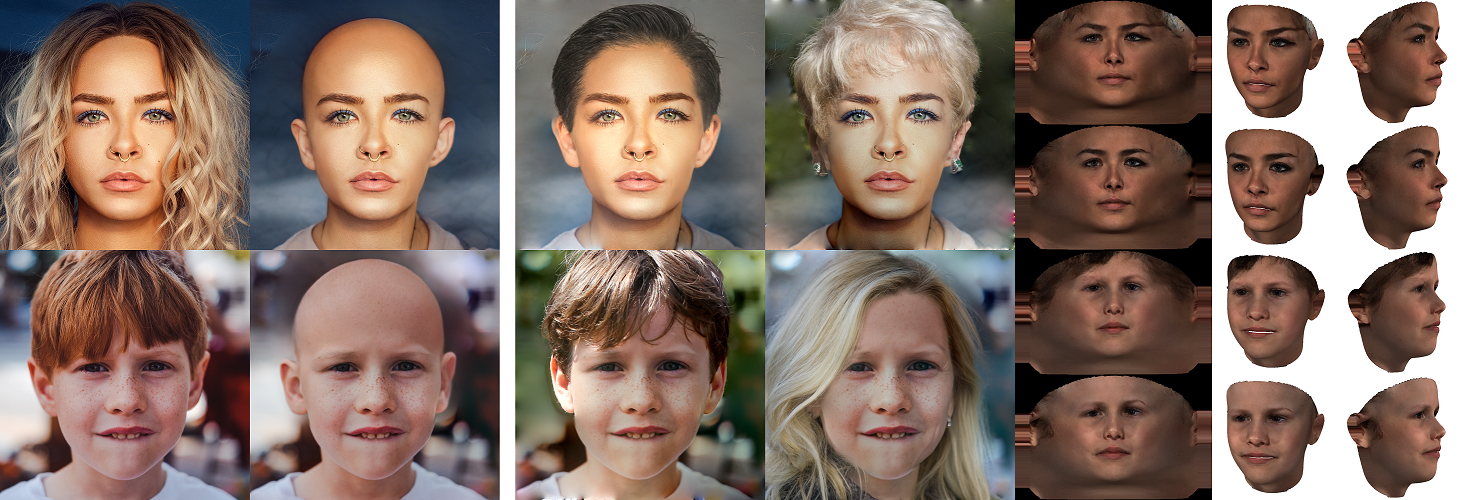
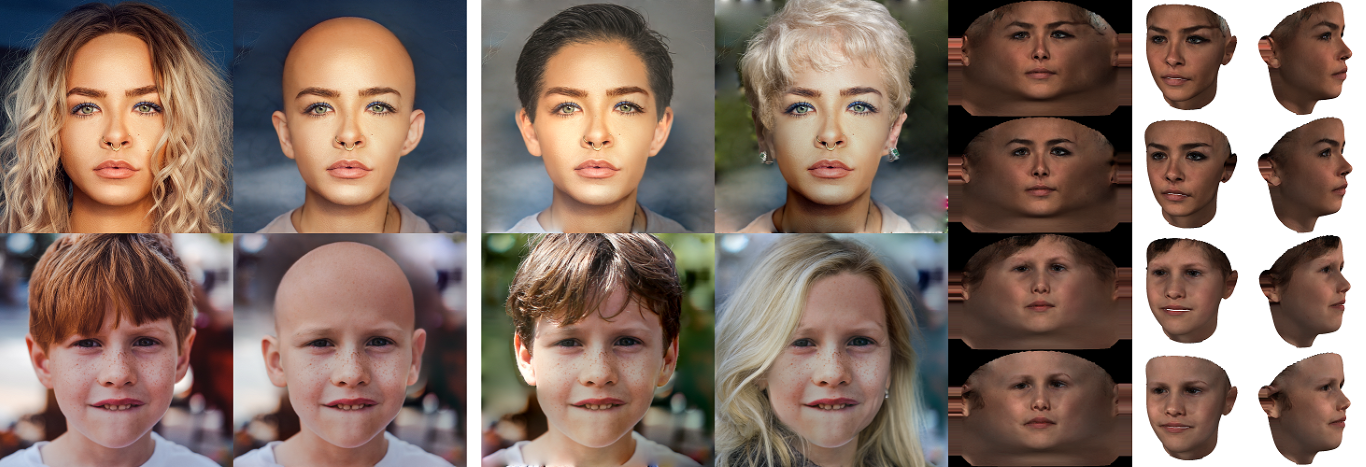
add teaser in pub

diff --git a/_includes/archive-single.html b/_includes/archive-single.html
@@ -12,6 +12,10 @@
   {% assign title = post.title %}
 {% endif %}
 
+{% if post.teaser %}
+  {% assign teaser = post.teaser %}
+{% endif %}
+
 <div class="{{ include.type | default: "list" }}__item">
   <article class="archive__item" itemscope itemtype="http://schema.org/CreativeWork">
     {% if include.type == "grid" and teaser %}
@@ -34,6 +38,11 @@
       {% endif %} -->
       <p>{{ title }}</p>
     </h2>
+
+    <!--    image-->
+    <img src="{{ teaser }}" alt="" height="42">
+
+
     
     {% if post.read_time %}
       <p class="page__meta"><i class="fa fa-clock-o" aria-hidden="true"></i> {% include read-time.html %}</p>

diff --git a/_publications/3DPortraitGAN.md b/_publications/3DPortraitGAN.md
@@ -13,6 +13,7 @@ supplementary_materials: 'https://drive.google.com/file/d/16aNE5USZ0U32bgGJS1G5x
 project_page: 'https://github.com/oneThousand1000/3DPortraitGAN'
 year: '2023'
 first_author: 'yes'
+teaser: 'http://oneThousand1000.github.io/images/publications/3DPortraitGAN.png'
 ---
 ![coarse2fine](http://oneThousand1000.github.io/images/publications/3DPortraitGAN.png)
 
